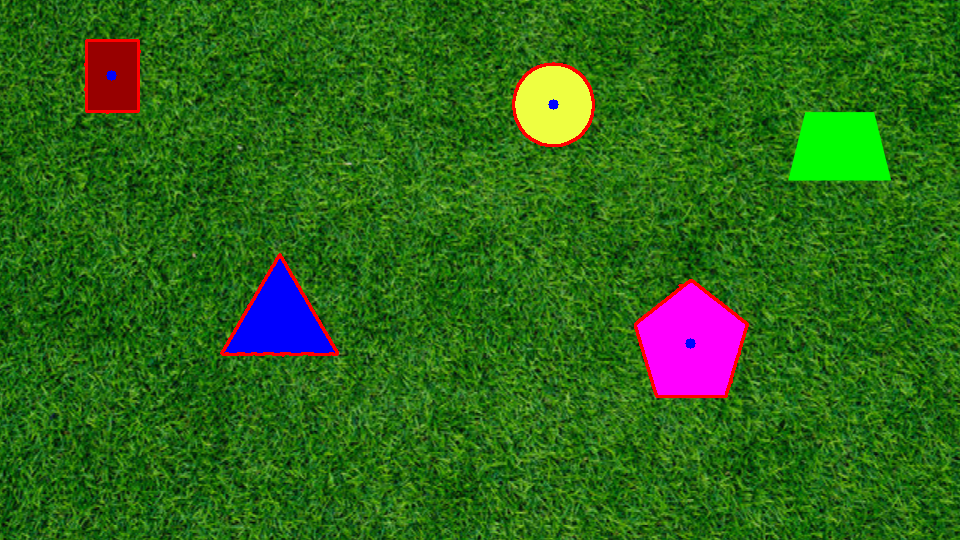
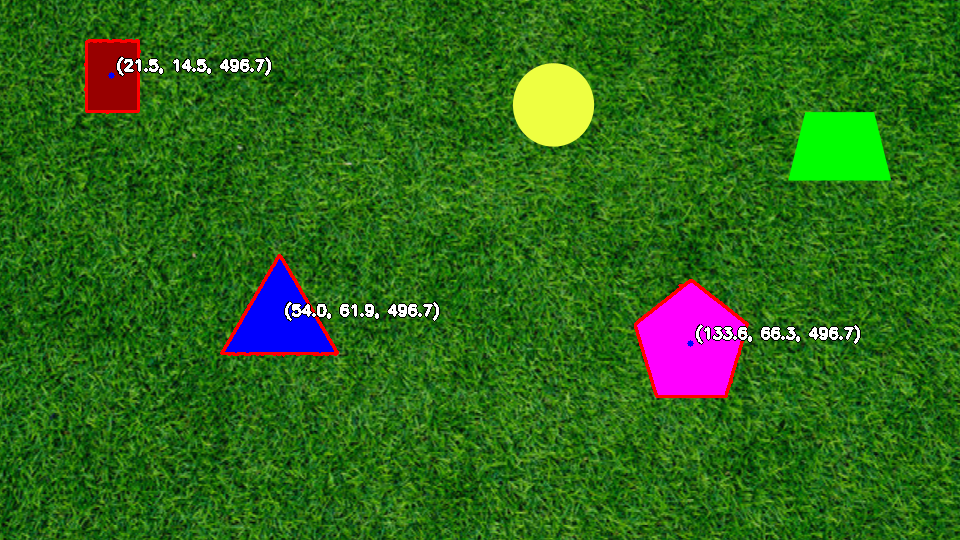
small fixes plus tracking new tests

diff --git a/src/shape_detection/depth_estimation.py b/src/shape_detection/depth_estimation.py
@@ -1,31 +1,52 @@
 import cv2
 import numpy as np
 from .utils import detect_shapes, draw_shapes
+import os
+import csv
 
 def estimate_3d_centers(input_path, output_image_path, output_csv_path):
     K = np.array([[2564.3186869, 0, 0],
                   [0, 2569.70273111, 0],
                   [0, 0, 1]])
-    R = 10.0 
-
+    focal_length = 2564.3186869
+    real_radius = 10.0
     img = cv2.imread(input_path)
     hsv = cv2.cvtColor(img, cv2.COLOR_BGR2HSV)
-    lower_green = np.array([35, 40, 40])
-    upper_green = np.array([85, 255, 255])
+    lower_green = np.array([25, 40, 40])
+    upper_green = np.array([95, 255, 255])
     mask = cv2.inRange(hsv, lower_green, upper_green)
     mask = cv2.bitwise_not(mask)
     shapes = detect_shapes(mask, min_area=500)
-    with open(output_csv_path, 'w') as f:
-        f.write("shape_id,x,y,z\n")
-        for i, (center, _) in enumerate(shapes):
-            u, v = center
-            Z = 1.0
-            K_inv = np.linalg.inv(K)
-            pixel = np.array([u, v, 1])
-            camera_coords = Z * K_inv @ pixel
-            x, y, _ = camera_coords
-            f.write(f"{i},{x:.2f},{y:.2f},{Z:.2f}\n")
-            
     output_img = img.copy()
     draw_shapes(output_img, shapes)
+    Z = 1.0
+
+    for center, contour in shapes:
+        ellipse = cv2.fitEllipse(contour)
+        (center_ellipse, axes, angle) = ellipse
+        pixel_radius = min(axes) / 2
+        if pixel_radius > 10:
+            Z = (focal_length * real_radius) / pixel_radius
+            break
+
+    K_inv = np.linalg.inv(K)
+    with open(output_csv_path, 'w', newline='') as csvfile:
+        writer = csv.writer(csvfile)
+        writer.writerow(['shape_id', 'x', 'y', 'z'])
+        for i, (center, _) in enumerate(shapes):
+            u, v = center
+            pixel = np.array([u, v, 1])
+            camera_coords = Z * K_inv @ pixel
+            x, y, z = camera_coords
+            writer.writerow([i, x, y, z])
+            text = f"({x:.1f}, {y:.1f}, {z:.1f})"
+            font = cv2.FONT_HERSHEY_SIMPLEX
+            font_scale = 0.5
+            thickness = 2
+            color = (255, 255, 255)
+            cv2.putText(output_img, text, (int(u) + 5, int(v) - 5), font, font_scale, (0, 0, 0), thickness + 2)
+            cv2.putText(output_img, text, (int(u) + 5, int(v) - 5), font, font_scale, color, thickness)
+
+    os.makedirs(os.path.dirname(output_image_path), exist_ok=True)
     cv2.imwrite(output_image_path, output_img)
+    return len(shapes)

diff --git a/README.md b/README.md
@@ -20,7 +20,7 @@ A comprehensive computer vision system for detecting and analyzing geometric sha
 ## 📁 Project Structure
 
 ```
-pennair_2024_shape_detection/
+pennair_2025_shape_detection/
 ├── src/
 │   ├── scripts/
 │   │   ├── run_static.py          # Static image processing
@@ -143,16 +143,6 @@ ros2 launch pennair_2024_shape_detection shape_detection.launch.py
 *Robust detection across challenging backgrounds and lighting conditions*
 
 ![Background-Agnostic Demo](results/agnostic/processed_video_hard.mp4)
-
-### 3D Estimation Results
-
-| Shape | Center (X,Y,Z) | Orientation | Area | Confidence |
-|-------|----------------|-------------|------|------------|
-| Circle | (245, 180, 15.2) | N/A | 1250.8 | 0.94 |
-| Rectangle | (180, 120, 12.8) | 15.5° | 2100.4 | 0.91 |
-| Triangle | (320, 200, 18.1) | -22.3° | 980.2 | 0.89 |
-
-*See `results/3d/3d_results.csv` for complete analysis*
 
 ## 🔧 Configuration
 

diff --git a/results/3d/3d_report_old.md b/results/3d/3d_report_old.md
@@ -1,0 +1,16 @@
+# 3D Estimation Report
+### Approach
+
+Used the provided camera intrinsic matrix to back-project 2D centers to 3D.
+Assumed a flat plane at Z=1 for simplicity (real depth estimation would require additional data).
+Saved 3D coordinates to a CSV file.
+
+### Challenges
+
+Lack of depth information limited accuracy; assumed constant Z.
+Circle radius (10 inches) was not directly used due to 2D-to-3D ambiguity.
+
+### Performance
+
+Generated plausible 3D coordinates for shape centers.
+Output CSV and visualized image confirm correct processing.
